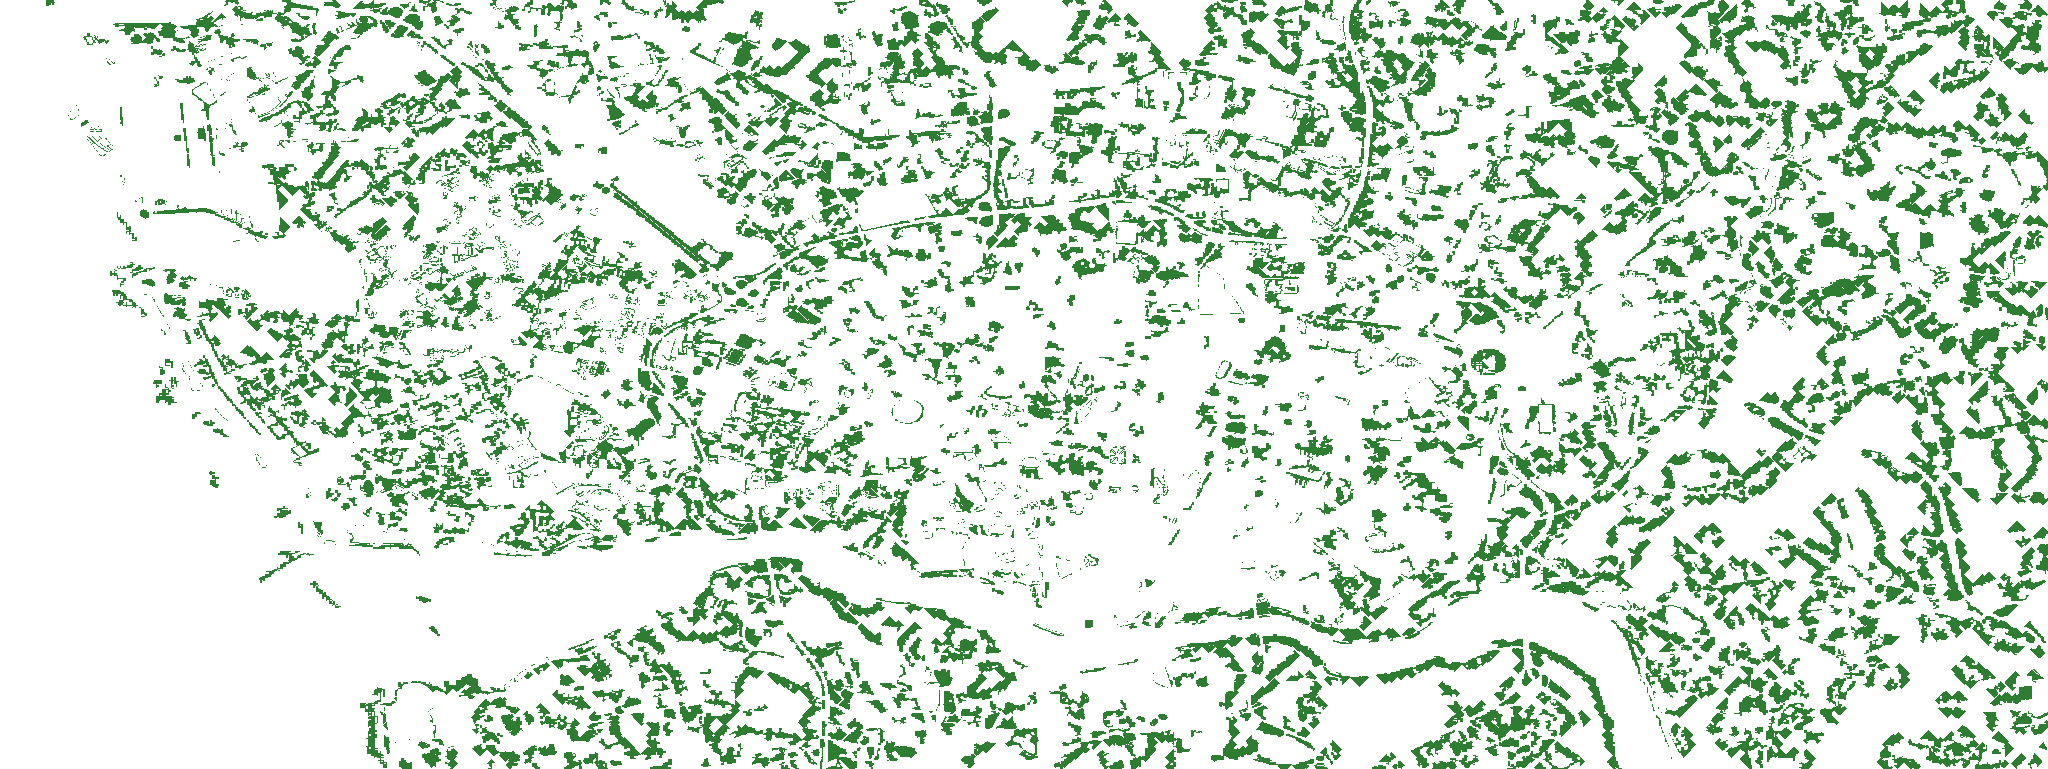
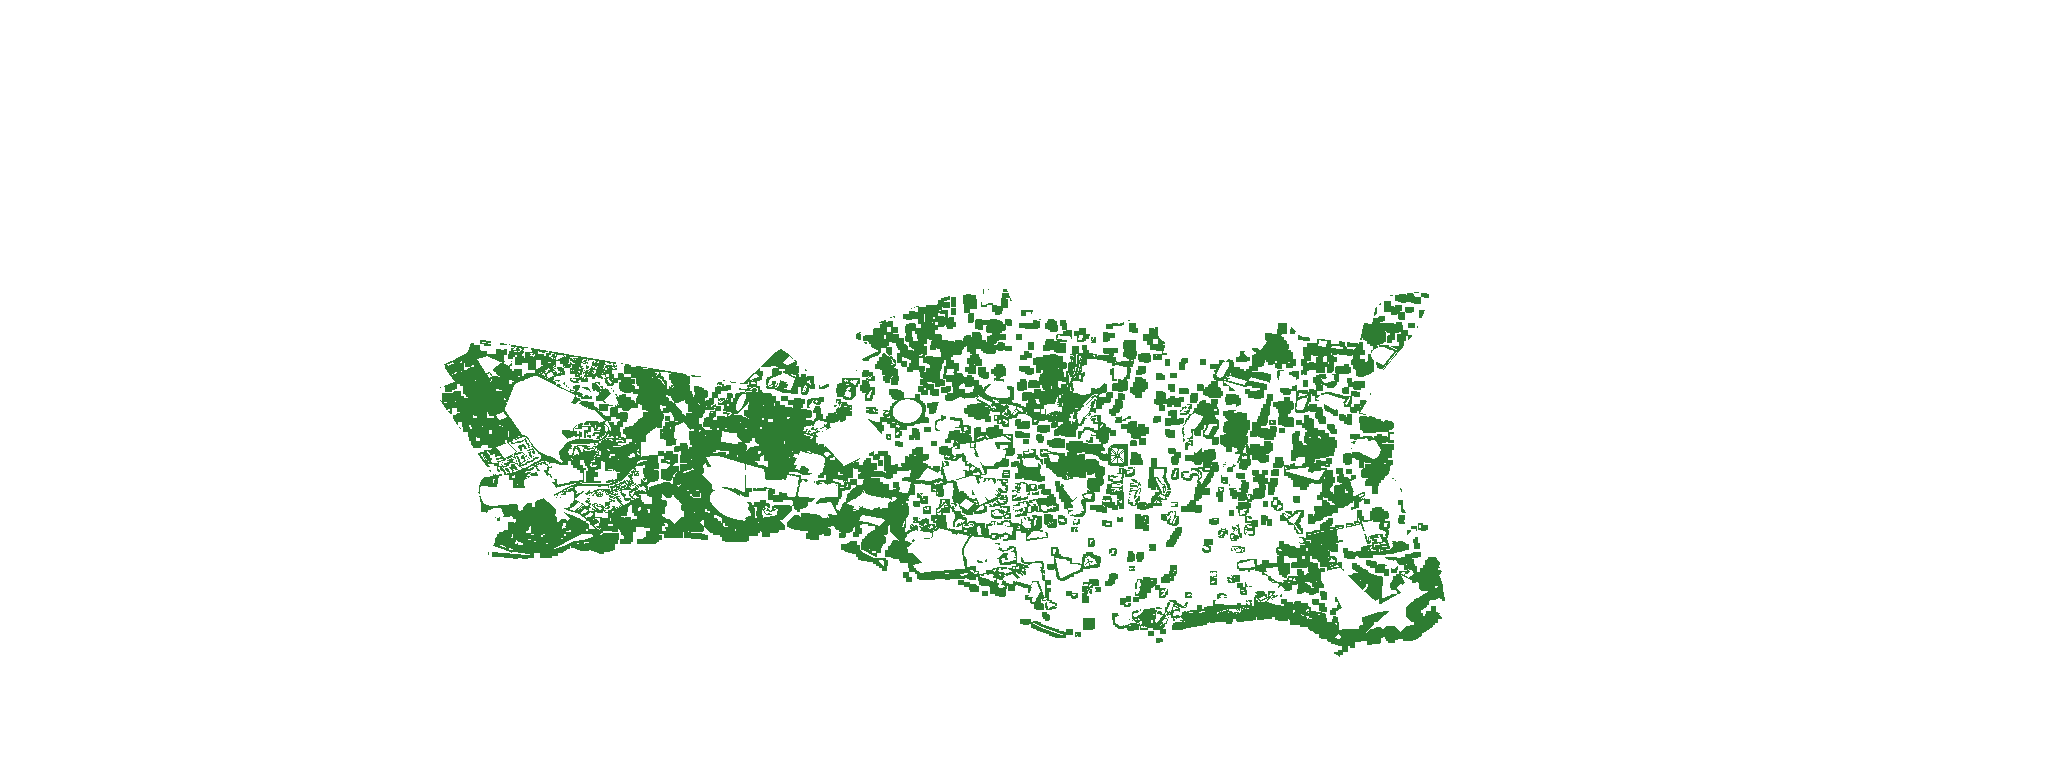
Adiciona contorno centro alargado, filtro morfológico e máscara equipamentos
- Contorno das 3 freguesias centrais (Cedofeita/Sé, Bonfim, Lordelo/Massarelos)
- Filtro morfológico (opening) remove ruas arborizadas e features lineares
- MIN_PIXELS diferenciado: 30 no centro, 100 na periferia
- OSM expandido: parques + cemitérios + escolas + hospitais + desporto

Changed region(s): [[0.0312, 0.0, 1.0, 1.0], [0.125, 0.7178, 0.1562, 0.749], [0.0625, 0.2497, 0.0938, 0.2809]]

diff --git a/interiores_quarteiroes.py b/interiores_quarteiroes.py
@@ -102,7 +102,86 @@ isBuilt_l = isBuilt_l_base.Or(stays_built)
 isTree_l = isTree_l_base.And(isBuilt_l.Not())
 isSolo_l = isTree_l.Not().And(isBuilt_l.Not())
 
-# Neighbourhood filter: pixels verdes com edificado na vizinhanca (borda de interiores)
+# ----- Zona centro alargado (3 freguesias via OSM) -----
+print('A obter limites das freguesias do centro...')
+
+CENTRO_QUERY = """
+[out:json][timeout:60];
+(
+  relation(3382149);
+  relation(3383100);
+  relation(3382145);
+);
+out body;
+>;
+out skel qt;
+"""
+
+centro_data = None
+for overpass_url in ['https://overpass-api.de/api/interpreter', 'https://overpass.kumi.systems/api/interpreter']:
+    for attempt in range(3):
+        print(f'  A tentar {overpass_url} (tentativa {attempt+1})...')
+        try:
+            resp = requests.get(overpass_url, params={'data': CENTRO_QUERY}, timeout=90)
+            if resp.status_code == 200:
+                centro_data = resp.json()
+                break
+        except Exception:
+            pass
+        import time as _time
+        _time.sleep(5)
+    if centro_data:
+        break
+
+# Construir poligonos das freguesias
+centro_nodes = {}
+for el in centro_data['elements']:
+    if el['type'] == 'node':
+        centro_nodes[el['id']] = (el['lon'], el['lat'])
+
+# Construir ways lookup
+centro_ways = {}
+for el in centro_data['elements']:
+    if el['type'] == 'way' and 'nodes' in el:
+        coords = [centro_nodes[n] for n in el['nodes'] if n in centro_nodes]
+        centro_ways[el['id']] = coords
+
+from shapely.geometry import Polygon as ShapelyPolygon
+from shapely.ops import linemerge, polygonize
+
+centro_polys = []
+for el in centro_data['elements']:
+    if el['type'] == 'relation':
+        outer_coords = []
+        for member in el.get('members', []):
+            if member['type'] == 'way' and member['role'] == 'outer':
+                if member['ref'] in centro_ways:
+                    outer_coords.append(centro_ways[member['ref']])
+        if outer_coords:
+            # Merge way segments into closed rings
+            from shapely.geometry import LineString
+            lines = [LineString(c) for c in outer_coords if len(c) >= 2]
+            merged = linemerge(lines)
+            polys = list(polygonize(merged))
+            centro_polys.extend(polys)
+
+from shapely.ops import unary_union as union_geom
+if centro_polys:
+    centro_union = union_geom(centro_polys)
+    print(f'  {len(centro_polys)} poligonos de freguesias do centro encontrados')
+    # Converter para ee.Geometry
+    if centro_union.geom_type == 'MultiPolygon':
+        ee_coords = [list(p.exterior.coords) for p in centro_union.geoms]
+    else:
+        ee_coords = [list(centro_union.exterior.coords)]
+    centro_ee = ee.Geometry.MultiPolygon([ee_coords])
+else:
+    print('  AVISO: freguesias do centro nao encontradas, usando porto inteiro')
+    centro_ee = porto
+
+is_centro = ee.Image.constant(1).clip(centro_ee).unmask(0).clip(porto)
+
+# ----- Filtro de vizinhanca + flood-fill -----
 print('A calcular filtro de vizinhanca...')
 isGreen_l = isTree_l.Or(isSolo_l)
 isGreen_e = isTree_e.Or(isSolo_e)
@@ -114,33 +193,57 @@ built_fraction = isBuilt_l.unmask(0).reduceNeighborhood(
 is_edge_interior = built_fraction.gte(0.5)
 
 # Flood-fill: crescer das bordas para dentro, preenchendo interiores grandes
-# Sementes = pixels verdes na borda (junto a edificios)
 print('A preencher interiores (flood-fill)...')
 interior_fill = isGreen_l.And(is_edge_interior)
-for _ in range(10):  # ~100m de crescimento (10 iter x 10m/pixel)
+for _ in range(10):
     grown = interior_fill.focal_max(radius=10, units='meters')
     interior_fill = grown.And(isGreen_l).Or(interior_fill)
 
-# Subsistente: green/soil em 2024 dentro de interiores de quarteirão
 subsistente_raw = isGreen_l.And(interior_fill).selfMask()
 
-# Perdido: era green/soil em 2016, agora edificado, na zona de interiores
-# Usar o mesmo flood-fill mas para a epoca 2016
 interior_fill_e = isGreen_e.And(is_edge_interior)
 for _ in range(10):
     grown = interior_fill_e.focal_max(radius=10, units='meters')
     interior_fill_e = grown.And(isGreen_e).Or(interior_fill_e)
 perdido_raw = isGreen_e.And(isBuilt_l).And(interior_fill_e).selfMask()
 
-# Filtro de area minima: remover manchas com menos de 30 pixels conexos (~3000 m2)
-MIN_PIXELS = 30
-subsistente_count = subsistente_raw.connectedPixelCount(MIN_PIXELS + 1)
-subsistente = subsistente_raw.updateMask(subsistente_count.gte(MIN_PIXELS))
+# ----- Filtro morfologico: remover ruas arborizadas (features lineares) -----
+# Opening (erosao + dilatacao) remove features < ~30m de largura
+print('A remover features lineares (ruas arborizadas)...')
+subsistente_opened = subsistente_raw.focal_min(
+    radius=1.5, kernelType='square', units='pixels'
+).focal_max(
+    radius=1.5, kernelType='square', units='pixels'
+).selfMask()
 
-perdido_count = perdido_raw.connectedPixelCount(MIN_PIXELS + 1)
-perdido = perdido_raw.updateMask(perdido_count.gte(MIN_PIXELS))
+perdido_opened = perdido_raw.focal_min(
+    radius=1.5, kernelType='square', units='pixels'
+).focal_max(
+    radius=1.5, kernelType='square', units='pixels'
+).selfMask()
 
-print('Classificacao e filtro de vizinhanca concluidos.')
+# ----- Filtro de area minima: diferenciado centro vs periferia -----
+MIN_PIXELS_CENTRO = 30     # ~3000 m2
+MIN_PIXELS_PERIFERIA = 100  # ~10000 m2 (1 ha)
+
+print('A filtrar por area minima...')
+sub_count = subsistente_opened.connectedPixelCount(MIN_PIXELS_PERIFERIA + 1)
+sub_centro = subsistente_opened.updateMask(
+    sub_count.gte(MIN_PIXELS_CENTRO).And(is_centro))
+sub_periferia = subsistente_opened.updateMask(
+    sub_count.gte(MIN_PIXELS_PERIFERIA).And(is_centro.Not()))
+subsistente = sub_centro.unmask(0).add(sub_periferia.unmask(0)).selfMask()
+
+per_count = perdido_opened.connectedPixelCount(MIN_PIXELS_PERIFERIA + 1)
+per_centro = perdido_opened.updateMask(
+    per_count.gte(MIN_PIXELS_CENTRO).And(is_centro))
+per_periferia = perdido_opened.updateMask(
+    per_count.gte(MIN_PIXELS_PERIFERIA).And(is_centro.Not()))
+perdido = per_centro.unmask(0).add(per_periferia.unmask(0)).selfMask()
+
+# Contorno do centro alargado (rasterizado localmente, nao no GEE)
+
+print('Classificacao e filtros concluidos.')
 
 from PIL import Image
 import numpy as np
@@ -178,6 +281,35 @@ def download_layer(image, color_hex, filename):
 print('\nA descarregar camadas...')
 download_layer(subsistente, '2E7D32', 'interior_subsistente.png')
 download_layer(perdido, 'D7263D', 'interior_perdido.png')
+# Centro alargado: rasterizar contorno localmente (geometria vem do OSM, nao do GEE)
+centro_path = 'layers/centro_alargado.png'
+if not os.path.exists(centro_path):
+    print('  A rasterizar contorno do centro alargado...')
+    # Usar as dimensoes reais dos PNGs existentes
+    ref_img = Image.open('layers/interior_subsistente.png')
+    W, H = ref_img.size
+    centro_boundary = centro_union.boundary
+    centro_img = Image.new('RGBA', (W, H), (0, 0, 0, 0))
+    from PIL import ImageDraw
+    draw = ImageDraw.Draw(centro_img)
+    lon_min, lon_max = -8.70, -8.54
+    lat_min, lat_max = 41.13, 41.19
+    def geo_to_pixel(lon, lat):
+        x = (lon - lon_min) / (lon_max - lon_min) * W
+        y = (lat_max - lat) / (lat_max - lat_min) * H
+        return (x, y)
+    if centro_boundary.geom_type == 'MultiLineString':
+        lines = centro_boundary.geoms
+    else:
+        lines = [centro_boundary]
+    for line in lines:
+        coords = [geo_to_pixel(x, y) for x, y in line.coords]
+        if len(coords) >= 2:
+            draw.line(coords, fill=(255, 215, 0, 255), width=3)
+    centro_img.save(centro_path)
+    print(f'  centro_alargado.png guardado ({os.path.getsize(centro_path)//1024} KB)')
+else:
+    print('  centro_alargado.png ja existe, a saltar...')
 
 # Municipios (reuse if exists)
 muni_styled = ee.Image().paint(municipiosPorto, 0, 2).selfMask()
@@ -187,7 +319,7 @@ from shapely.geometry import shape, box, MultiPolygon
 from shapely.ops import unary_union
 
 # ----- Phase 2: OSM park mask -----
-print('\nA descarregar espacos verdes publicos do OSM...')
+print('\nA descarregar espacos verdes publicos e equipamentos do OSM...')
 
 OVERPASS_URLS = [
     'https://overpass-api.de/api/interpreter',
@@ -202,6 +334,20 @@ OVERPASS_QUERY = """
   relation["leisure"="garden"](41.13,-8.70,41.19,-8.54);
   way["landuse"="recreation_ground"](41.13,-8.70,41.19,-8.54);
   relation["landuse"="recreation_ground"](41.13,-8.70,41.19,-8.54);
+  way["landuse"="cemetery"](41.13,-8.70,41.19,-8.54);
+  relation["landuse"="cemetery"](41.13,-8.70,41.19,-8.54);
+  way["amenity"="school"](41.13,-8.70,41.19,-8.54);
+  relation["amenity"="school"](41.13,-8.70,41.19,-8.54);
+  way["amenity"="university"](41.13,-8.70,41.19,-8.54);
+  relation["amenity"="university"](41.13,-8.70,41.19,-8.54);
+  way["amenity"="hospital"](41.13,-8.70,41.19,-8.54);
+  relation["amenity"="hospital"](41.13,-8.70,41.19,-8.54);
+  way["leisure"="sports_centre"](41.13,-8.70,41.19,-8.54);
+  relation["leisure"="sports_centre"](41.13,-8.70,41.19,-8.54);
+  way["leisure"="stadium"](41.13,-8.70,41.19,-8.54);
+  relation["leisure"="stadium"](41.13,-8.70,41.19,-8.54);
+  way["leisure"="pitch"](41.13,-8.70,41.19,-8.54);
+  relation["leisure"="pitch"](41.13,-8.70,41.19,-8.54);
 );
 out body;
 >;
@@ -258,7 +404,7 @@ for el in osm_data['elements']:
 
 if park_polys:
     parks_union = unary_union(park_polys)
-    print(f'  {len(park_polys)} poligonos de parques/jardins encontrados')
+    print(f'  {len(park_polys)} poligonos de parques/equipamentos encontrados')
 else:
     parks_union = MultiPolygon()
     print('  Nenhum parque encontrado (mascara OSM nao aplicada)')
@@ -298,6 +444,7 @@ def to_base64(filepath):
 MAP_LAYERS = [
     ('interior_subsistente', 'Subsistente', '#2E7D32', True),
     ('interior_perdido', 'Perdido', '#D7263D', True),
+    ('centro_alargado', 'Centro alargado', '#FFD700', True),
     ('municipios', 'Limites municipais', '#FFFFFF', True),
 ]
 
